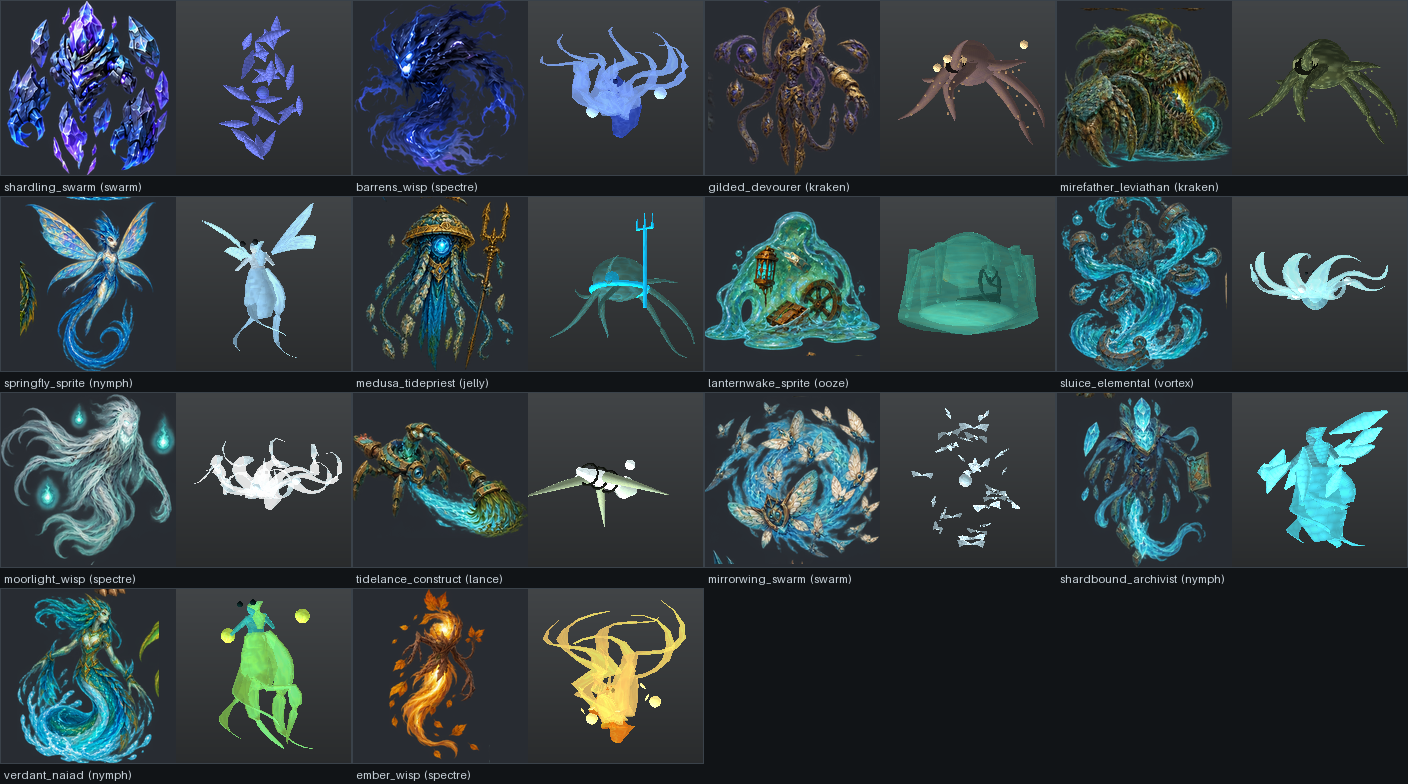
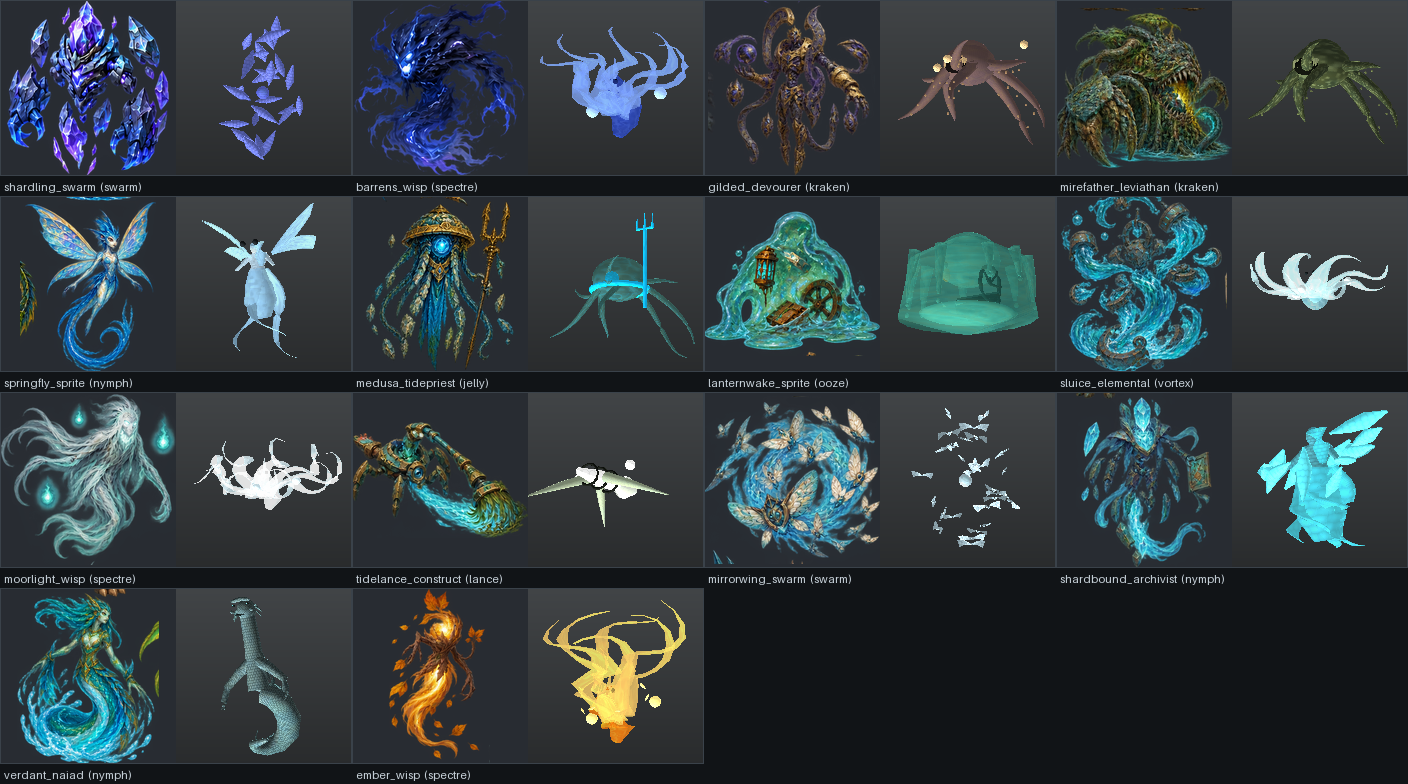
Refresh the QA evidence and record the serpent, fish and re-plan work
Regenerates the three comparison sheets against the rebuilt library and writes
down what the serpent and fish passes actually changed, including the two
things that had to be undone on the way -- hanging mane locks on an upright
chest, and a serpent descent that grounded the spine but not the body around
it.

Changed region(s): [[0.1562, 0.7653, 0.2188, 0.9796], [0.875, 0.3061, 0.9688, 0.398]]

diff --git a/eloria-assets/qa/creatures/README.md b/eloria-assets/qa/creatures/README.md
@@ -434,6 +434,50 @@ tenth now, with a higher saturation floor, and `_saturate` refuses to amplify a
 colour that is already neutral.  The frost golem measures cyan and the amethyst
 golem violet, which is what the art draws.
 
+### Serpents, fish, and four that were on the wrong body
+
+The serpent and fish families had not been touched at all, and between them
+they are fifteen creatures.
+
+**Ten serpents were ten lengths of hose.** The rig held the body at a constant
+height in a shallow horizontal wiggle, which is not a pose any serpent in the
+art holds: it coils all of them, the body looping up off the ground and the
+head carried above it. The body is a spiral now, its radius set from its own
+length so about one turn uses it up -- a serpent in the art occupies a compact
+coil roughly as wide as it is tall. Getting it to the floor took care:
+descending only as far as the rear height left the whole family hovering,
+because the spine stops at body height while the tube around it has already
+tapered to nothing. They also gained the two things the art gives every one of
+them and the models had neither of -- a ridge of dorsal spines down the back,
+which is what makes the coils read as coils from the side, and a head plainly
+bigger than the body behind it with a crown of fins sweeping off the skull.
+
+The naga was half a person with nothing in the person half, so a coral
+priestess came out as a snowman on a coil. It has a ribcage, a shoulder
+girdle, arms with hands and a face now, and no longer wears the serpent snout
+over that face.
+
+**Five fish were five torpedoes with a paddle on the back.** A rectangle on
+the end of a tube is the most model-looking thing a fish can have. The caudal
+fin is two swept lobes with a notch between them, the dorsal runs most of the
+back with an anal fin to match, and the pectorals sweep back at half again
+their old reach. The manta was not a manta -- at .42 girth against .70 length
+it was a torpedo with a bulge, against an art figure half again as wide as it
+is long -- so its wing is a swept diamond with the tip carried back and the
+trailing edge cut concave, plus the cephalic lobes that say "manta" before
+anything else does. The axolotl's external gills were three spikes that read
+as whiskers; they are three stalks a side carrying a fan of filaments, which
+is the biggest thing on its head in the art.
+
+**Four were simply on the wrong body.** The Verdant Naiad was the worst pair
+in the library: cell 11 of the Verdant Stair sheet is a river *naga*, and the
+roster had it on the amorphous vortex plan, so it came out as a cloud of
+acid-green shards with two floating orbs. The jungle gorilla's head sat a
+tenth of a unit proud of its shoulders and was swallowed whole. The bronze
+diving beetle wore its shell in the keratin material -- a white ribbed loaf --
+over three segments far enough apart to read as three eggs. The hummingbird
+was a finch, with a short bill and legs to stand on.
+
 ### Colour and value, measured
 
 * `concept_growth_tints.py` samples what is *growing* on each creature from its
@@ -468,7 +512,7 @@ in that form rather than the host's.
 
 ### Budget
 
-171 creatures, mean 6,192 triangles, 83 MB on disk, with the woody and plated
+171 creatures, mean 6,287 triangles, 84 MB on disk, with the woody and plated
 hero creatures between 12,000 and 30,000 -- up from a mean of 4,945 and 74 MB. The
 mean is well under the ceiling this pass was allowed, because the triangles
 went into features the art shows and the models lacked rather than into
